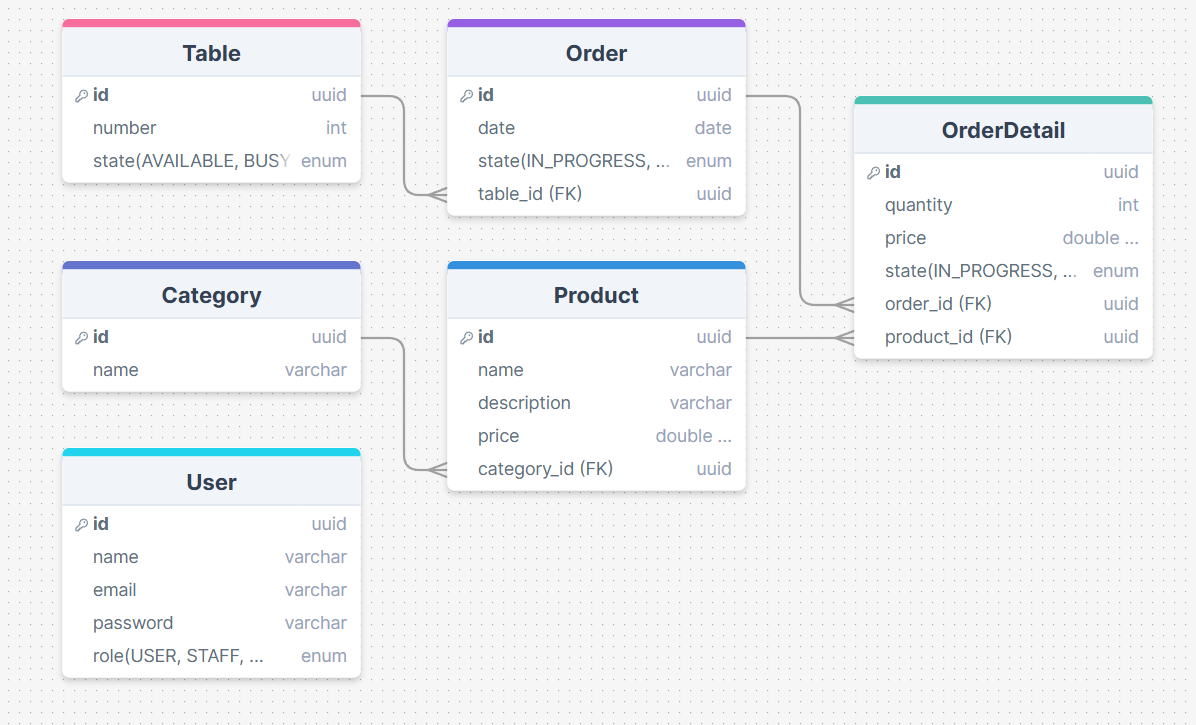
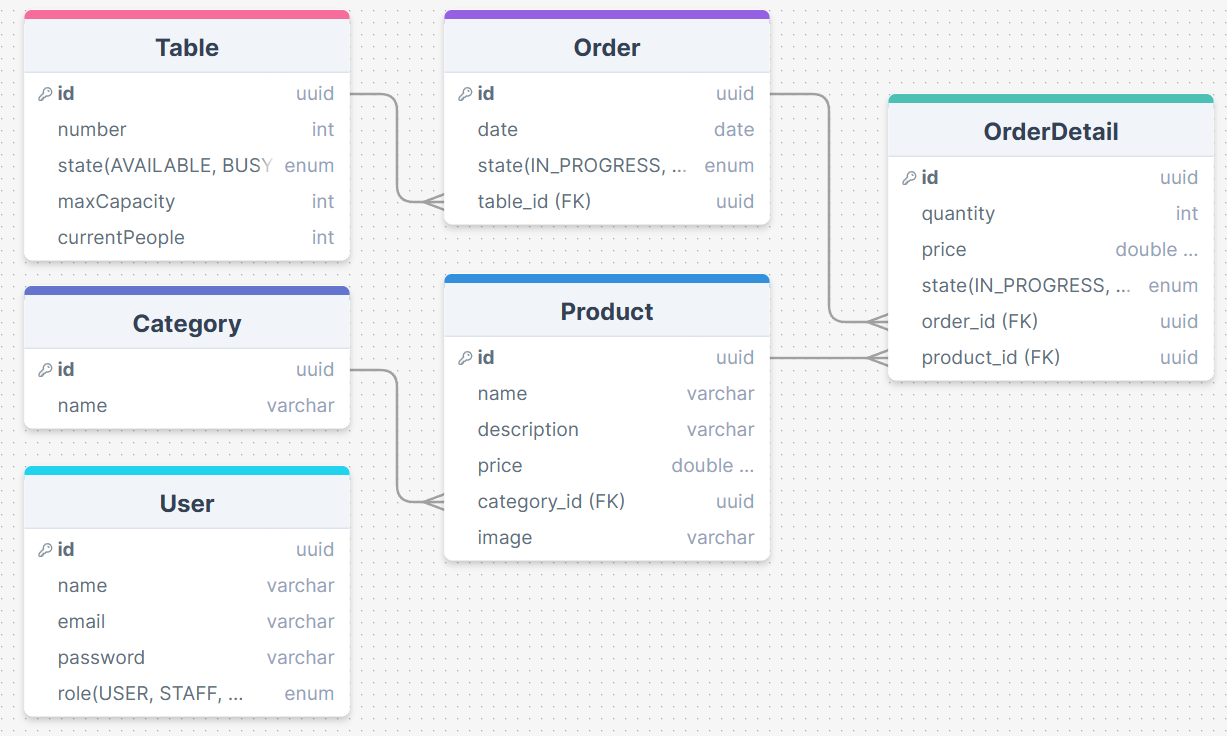
commit
aggiunto endpoint CRUD per product e aggiustato alcuni record per la validazione

diff --git a/src/main/java/cristianmartucci/SushiTime_backend/services/OrderDetailsService.java b/src/main/java/cristianmartucci/SushiTime_backend/services/OrderDetailsService.java
@@ -1,0 +1,74 @@
+package cristianmartucci.SushiTime_backend.services;
+
+import cristianmartucci.SushiTime_backend.entities.Order;
+import cristianmartucci.SushiTime_backend.entities.OrderDetail;
+import cristianmartucci.SushiTime_backend.entities.Product;
+import cristianmartucci.SushiTime_backend.enums.OrderDetailState;
+import cristianmartucci.SushiTime_backend.exceptions.BadRequestException;
+import cristianmartucci.SushiTime_backend.exceptions.NotFoundException;
+import cristianmartucci.SushiTime_backend.payloads.orderDetails.NewOrderDetailDTO;
+import cristianmartucci.SushiTime_backend.payloads.orderDetails.UpdateOrderDetailDTO;
+import cristianmartucci.SushiTime_backend.repositories.OrderDetailRepository;
+import org.springframework.beans.factory.annotation.Autowired;
+import org.springframework.data.domain.Page;
+import org.springframework.data.domain.PageRequest;
+import org.springframework.data.domain.Pageable;
+import org.springframework.data.domain.Sort;
+import org.springframework.stereotype.Service;
+
+import java.util.UUID;
+
+@Service
+public class OrderDetailsService {
+    @Autowired
+    private OrderDetailRepository orderDetailRepository;
+    @Autowired
+    private OrderService orderService;
+    @Autowired
+    private ProductService productService;
+
+    public OrderDetail findById(UUID id){
+        return this.orderDetailRepository.findById(id).orElseThrow(() -> new NotFoundException(id));
+    }
+
+    public OrderDetail save(NewOrderDetailDTO body, UUID orderId){
+        Order order = this.orderService.findById(orderId);
+        Product product = this.productService.findByName(body.productName());
+        OrderDetail orderDetail = new OrderDetail(body.quantity() == null ? 1 : body.quantity(), body.price() == null ? product.getPrice() : body.price(), order, product);
+        return this.orderDetailRepository.save(orderDetail);
+    }
+
+    public Page<OrderDetail> getAllByOrder(UUID orderId, int pageNumber, int pageSize, String sortBy){
+        if (pageSize > 50) pageSize = 50;
+        Pageable pageable = PageRequest.of(pageNumber, pageSize, Sort.by(sortBy));
+        return this.orderDetailRepository.getAllDetailByOrder(orderId, pageable);
+    }
+
+    public Page<OrderDetail> getAll(int pageNumber, int pageSize, String sortBy){
+        if (pageSize > 50) pageSize = 50;
+        Pageable pageable = PageRequest.of(pageNumber, pageSize, Sort.by(sortBy));
+        return this.orderDetailRepository.findAll(pageable);
+    }
+
+    public OrderDetail update(UUID id, UpdateOrderDetailDTO body){
+        OrderDetail orderDetail = this.findById(id);
+        if (body.orderId() != null) orderDetail.setOrder(this.orderService.findById(UUID.fromString(body.orderId())));
+        if (body.productName() != null) orderDetail.setProduct(this.productService.findByName(body.productName()));
+        if (body.quantity() != null) orderDetail.setQuantity(body.quantity());
+        if (body.price() != null) orderDetail.setPrice(body.price());
+        if (body.state() != null) orderDetail.setState(stringToState(body.state()));
+        return this.orderDetailRepository.save(orderDetail);
+    }
+
+    public void delete(UUID id){
+        this.orderDetailRepository.delete(this.findById(id));
+    }
+
+    private static OrderDetailState stringToState(String state){
+        try {
+            return OrderDetailState.valueOf(state.toUpperCase());
+        }catch (IllegalArgumentException error){
+            throw new BadRequestException("Stato inserito non corretto! Stati disponibili: IN_PROGRESS, SERVED, CANCELED");
+        }
+    }
+}

diff --git a/src/main/java/cristianmartucci/SushiTime_backend/controllers/OrderDetailController.java b/src/main/java/cristianmartucci/SushiTime_backend/controllers/OrderDetailController.java
@@ -1,0 +1,72 @@
+package cristianmartucci.SushiTime_backend.controllers;
+
+import cristianmartucci.SushiTime_backend.entities.Order;
+import cristianmartucci.SushiTime_backend.entities.OrderDetail;
+import cristianmartucci.SushiTime_backend.exceptions.BadRequestException;
+import cristianmartucci.SushiTime_backend.payloads.orderDetails.NewOrderDetailDTO;
+import cristianmartucci.SushiTime_backend.payloads.orderDetails.NewOrderDetailResponseDTO;
+import cristianmartucci.SushiTime_backend.payloads.orderDetails.UpdateOrderDetailDTO;
+import cristianmartucci.SushiTime_backend.payloads.orders.OrderStateResponseDTO;
+import cristianmartucci.SushiTime_backend.services.OrderDetailsService;
+import org.springframework.beans.factory.annotation.Autowired;
+import org.springframework.data.domain.Page;
+import org.springframework.http.HttpStatus;
+import org.springframework.security.access.prepost.PreAuthorize;
+import org.springframework.validation.BindingResult;
+import org.springframework.validation.annotation.Validated;
+import org.springframework.web.bind.annotation.*;
+
+import java.util.UUID;
+
+@RestController
+@RequestMapping("/orders")
+public class OrderDetailController {
+    @Autowired
+    private OrderDetailsService orderDetailsService;
+
+    @PostMapping("/{orderId}/details")
+    @ResponseStatus(HttpStatus.CREATED)
+    @PreAuthorize("hasAnyAuthority('ADMIN', 'STAFF')")
+    public NewOrderDetailResponseDTO save(@PathVariable UUID orderId, @RequestBody @Validated NewOrderDetailDTO body, BindingResult bindingResult){
+        if (bindingResult.hasErrors()){
+            System.out.println(bindingResult.getAllErrors());
+            throw new BadRequestException(bindingResult.getAllErrors());
+        }
+        return new NewOrderDetailResponseDTO(this.orderDetailsService.save(body, orderId).getId());
+    }
+
+    @GetMapping("{orderId}/details")
+    @PreAuthorize("hasAnyAuthority('ADMIN', 'STAFF')")
+    public Page<OrderDetail> getAll(@PathVariable UUID orderId ,@RequestParam(defaultValue = "0") int page, @RequestParam(defaultValue = "10") int size, @RequestParam(defaultValue = "state") String sortBy){
+        return this.orderDetailsService.getAllByOrder(orderId, page, size, sortBy);
+    }
+
+    @GetMapping("/details")
+    @PreAuthorize("hasAnyAuthority('ADMIN', 'STAFF')")
+    public Page<OrderDetail> getAll(@RequestParam(defaultValue = "0") int page, @RequestParam(defaultValue = "10") int size, @RequestParam(defaultValue = "state") String sortBy){
+        return this.orderDetailsService.getAll(page, size, sortBy);
+    }
+
+    @GetMapping("/order/{orderDetailId}")
+    @PreAuthorize("hasAnyAuthority('ADMIN', 'STAFF')")
+    public OrderDetail getOrderDetail(@PathVariable UUID orderDetailId){
+        return this.orderDetailsService.findById(orderDetailId);
+    }
+
+    @PutMapping("/order/{orderDetailId}")
+    @PreAuthorize("hasAnyAuthority('ADMIN', 'STAFF')")
+    public OrderDetail update(@PathVariable UUID orderDetailId, @RequestBody @Validated UpdateOrderDetailDTO body, BindingResult bindingResult){
+        if (bindingResult.hasErrors()){
+            System.out.println(bindingResult.getAllErrors());
+            throw new BadRequestException(bindingResult.getAllErrors());
+        }
+        return this.orderDetailsService.update(orderDetailId, body);
+    }
+
+    @DeleteMapping("/order/{orderDetailId}")
+    @ResponseStatus(HttpStatus.NO_CONTENT)
+    @PreAuthorize("hasAnyAuthority('ADMIN', 'STAFF')")
+    public void delete(@PathVariable UUID orderDetailId){
+        this.orderDetailsService.delete(orderDetailId);
+    }
+}

diff --git a/src/main/java/cristianmartucci/SushiTime_backend/services/ProductService.java b/src/main/java/cristianmartucci/SushiTime_backend/services/ProductService.java
@@ -28,14 +28,14 @@ public class ProductService {
     }
 
     public Product findByName(String name){
-        return this.productRepository.findByName(name).orElseThrow(() -> new NotFoundException("Prodotto " + name + " non trovato"));
+        return this.productRepository.findByName(name.toUpperCase()).orElseThrow(() -> new NotFoundException("Prodotto " + name + " non trovato"));
     }
 
     public Product save(NewProductDTO body){
-        if (this.productRepository.findByNameOrImage(body.name(), body.image()).isPresent()){
+        if (this.productRepository.findByNameOrImage(body.name().toUpperCase(), body.image()).isPresent()){
             throw new BadRequestException("Prodotto già presente");
         }
-        Product product = new Product(body.name(), body.description(), body.price(), body.image(), this.categoryService.findByName(body.category().toUpperCase()));
+        Product product = new Product(body.name().toUpperCase(), body.description(), body.price(), body.image(), this.categoryService.findByName(body.category().toUpperCase()));
         return this.productRepository.save(product);
     }
 
@@ -48,10 +48,10 @@ public class ProductService {
     public Product update(UUID id, UpdateProductDTO body){
         Product product = this.findById(id);
         if (body.name() != null){
-            if (this.productRepository.findByName(body.name()).isPresent()){
+            if (this.productRepository.findByName(body.name().toUpperCase()).isPresent()){
                 throw new BadRequestException("Nome già presente");
             }
-            product.setName(body.name());
+            product.setName(body.name().toUpperCase());
         }
         if (body.description() != null) product.setDescription(body.description());
         if (body.price() != null) product.setPrice(body.price());

diff --git a/src/main/java/cristianmartucci/SushiTime_backend/entities/OrderDetail.java b/src/main/java/cristianmartucci/SushiTime_backend/entities/OrderDetail.java
@@ -1,5 +1,7 @@
 package cristianmartucci.SushiTime_backend.entities;
 
+import com.fasterxml.jackson.annotation.JsonIgnoreProperties;
+import cristianmartucci.SushiTime_backend.enums.OrderDetailState;
 import cristianmartucci.SushiTime_backend.enums.OrderState;
 import jakarta.persistence.*;
 import jakarta.persistence.Table;
@@ -16,6 +18,7 @@ import java.util.UUID;
 @Setter
 @NoArgsConstructor
 @ToString
+@JsonIgnoreProperties({"order"})
 public class OrderDetail {
     @Id
     @GeneratedValue(strategy = GenerationType.AUTO)
@@ -23,7 +26,7 @@ public class OrderDetail {
     private int quantity;
     private double price;
     @Enumerated(value = EnumType.STRING)
-    private OrderState state;
+    private OrderDetailState state;
 
     @ManyToOne
     @JoinColumn(name = "order_id")
@@ -33,8 +36,11 @@ public class OrderDetail {
     @JoinColumn(name = "product_id")
     private Product product;
 
-    public OrderDetail(Order order) {
-        this.state = OrderState.IN_PROGRESS;
+    public OrderDetail(int quantity, double price, Order order, Product product) {
+        this.quantity = quantity;
+        this.price = price;
         this.order = order;
+        this.product = product;
+        this.state = OrderDetailState.IN_PROGRESS;
     }
 }

diff --git a/src/main/java/cristianmartucci/SushiTime_backend/payloads/orderDetails/NewOrderDetailDTO.java b/src/main/java/cristianmartucci/SushiTime_backend/payloads/orderDetails/NewOrderDetailDTO.java
@@ -1,0 +1,16 @@
+package cristianmartucci.SushiTime_backend.payloads.orderDetails;
+
+import cristianmartucci.SushiTime_backend.entities.Order;
+import jakarta.validation.constraints.NotEmpty;
+import jakarta.validation.constraints.NotNull;
+import jakarta.validation.constraints.Pattern;
+
+public record NewOrderDetailDTO(
+        Integer quantity,
+        Double price,
+//        @NotEmpty(message = "Id ordine obbligatorio")
+//        @Pattern(regexp = "^[0-9a-fA-F]{8}-[0-9a-fA-F]{4}-[0-9a-fA-F]{4}-[0-9a-fA-F]{4}-[0-9a-fA-F]{12}$", message = "Formato UUID non valido")
+//        String orderId,
+        @NotEmpty(message = "Nome prodotto obbligatorio")
+        String productName) {
+}

diff --git a/src/main/java/cristianmartucci/SushiTime_backend/repositories/OrderDetailRepository.java b/src/main/java/cristianmartucci/SushiTime_backend/repositories/OrderDetailRepository.java
@@ -1,0 +1,16 @@
+package cristianmartucci.SushiTime_backend.repositories;
+
+import cristianmartucci.SushiTime_backend.entities.OrderDetail;
+import org.springframework.data.domain.Page;
+import org.springframework.data.domain.Pageable;
+import org.springframework.data.jpa.repository.JpaRepository;
+import org.springframework.data.jpa.repository.Query;
+import org.springframework.stereotype.Repository;
+
+import java.util.UUID;
+
+@Repository
+public interface OrderDetailRepository extends JpaRepository<OrderDetail, UUID> {
+    @Query("SELECT o FROM OrderDetail o WHERE o.order.id = :orderId")
+    Page<OrderDetail> getAllDetailByOrder(UUID orderId, Pageable pageable);;
+}

diff --git a/src/main/java/cristianmartucci/SushiTime_backend/payloads/orderDetails/UpdateOrderDetailDTO.java b/src/main/java/cristianmartucci/SushiTime_backend/payloads/orderDetails/UpdateOrderDetailDTO.java
@@ -1,0 +1,14 @@
+package cristianmartucci.SushiTime_backend.payloads.orderDetails;
+
+import jakarta.validation.constraints.NotEmpty;
+import jakarta.validation.constraints.NotNull;
+import jakarta.validation.constraints.Pattern;
+
+public record UpdateOrderDetailDTO(
+        Integer quantity,
+        Double price,
+        @Pattern(regexp = "^[0-9a-fA-F]{8}-[0-9a-fA-F]{4}-[0-9a-fA-F]{4}-[0-9a-fA-F]{4}-[0-9a-fA-F]{12}$", message = "Formato UUID non valido")
+        String orderId,
+        String productName,
+        String state) {
+}

diff --git a/src/main/java/cristianmartucci/SushiTime_backend/controllers/OrderController.java b/src/main/java/cristianmartucci/SushiTime_backend/controllers/OrderController.java
@@ -1,6 +1,7 @@
 package cristianmartucci.SushiTime_backend.controllers;
 
 import cristianmartucci.SushiTime_backend.entities.Order;
+import cristianmartucci.SushiTime_backend.entities.OrderDetail;
 import cristianmartucci.SushiTime_backend.exceptions.BadRequestException;
 import cristianmartucci.SushiTime_backend.payloads.orders.NewOrderDTO;
 import cristianmartucci.SushiTime_backend.payloads.orders.NewOrderResponseDTO;

diff --git a/src/main/java/cristianmartucci/SushiTime_backend/payloads/orderDetails/NewOrderDetailResponseDTO.java b/src/main/java/cristianmartucci/SushiTime_backend/payloads/orderDetails/NewOrderDetailResponseDTO.java
@@ -1,0 +1,6 @@
+package cristianmartucci.SushiTime_backend.payloads.orderDetails;
+
+import java.util.UUID;
+
+public record NewOrderDetailResponseDTO(UUID id) {
+}

diff --git a/src/main/java/cristianmartucci/SushiTime_backend/enums/OrderDetailState.java b/src/main/java/cristianmartucci/SushiTime_backend/enums/OrderDetailState.java
@@ -1,0 +1,5 @@
+package cristianmartucci.SushiTime_backend.enums;
+
+public enum OrderDetailState {
+    IN_PROGRESS, SERVED, CANCELED
+}
